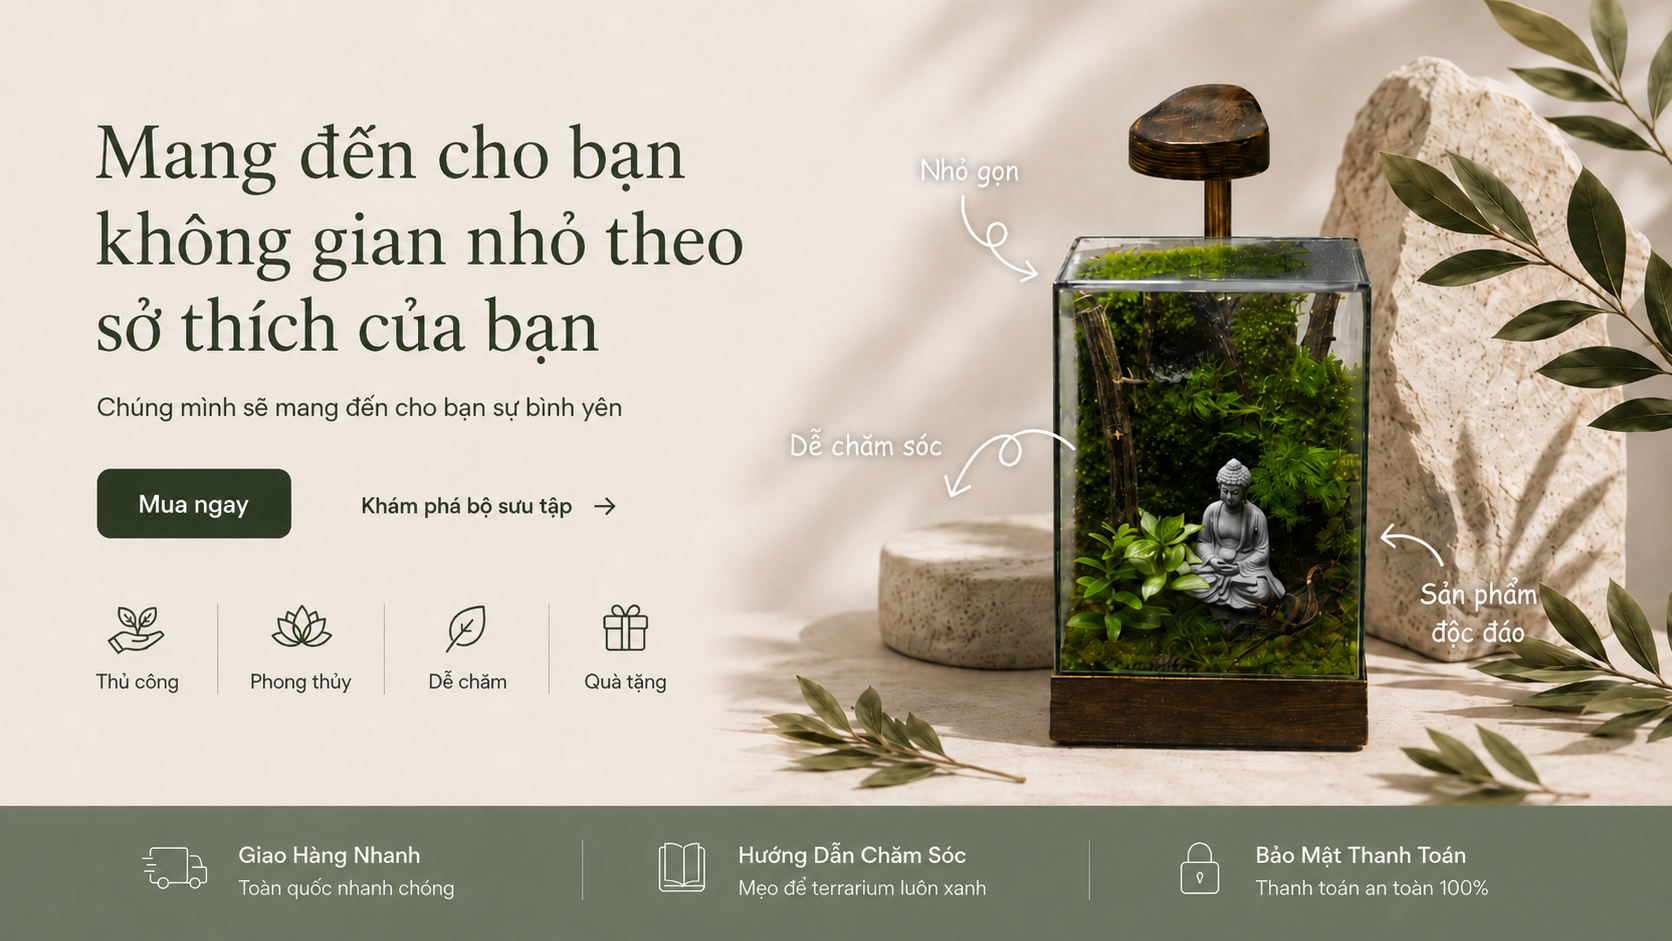
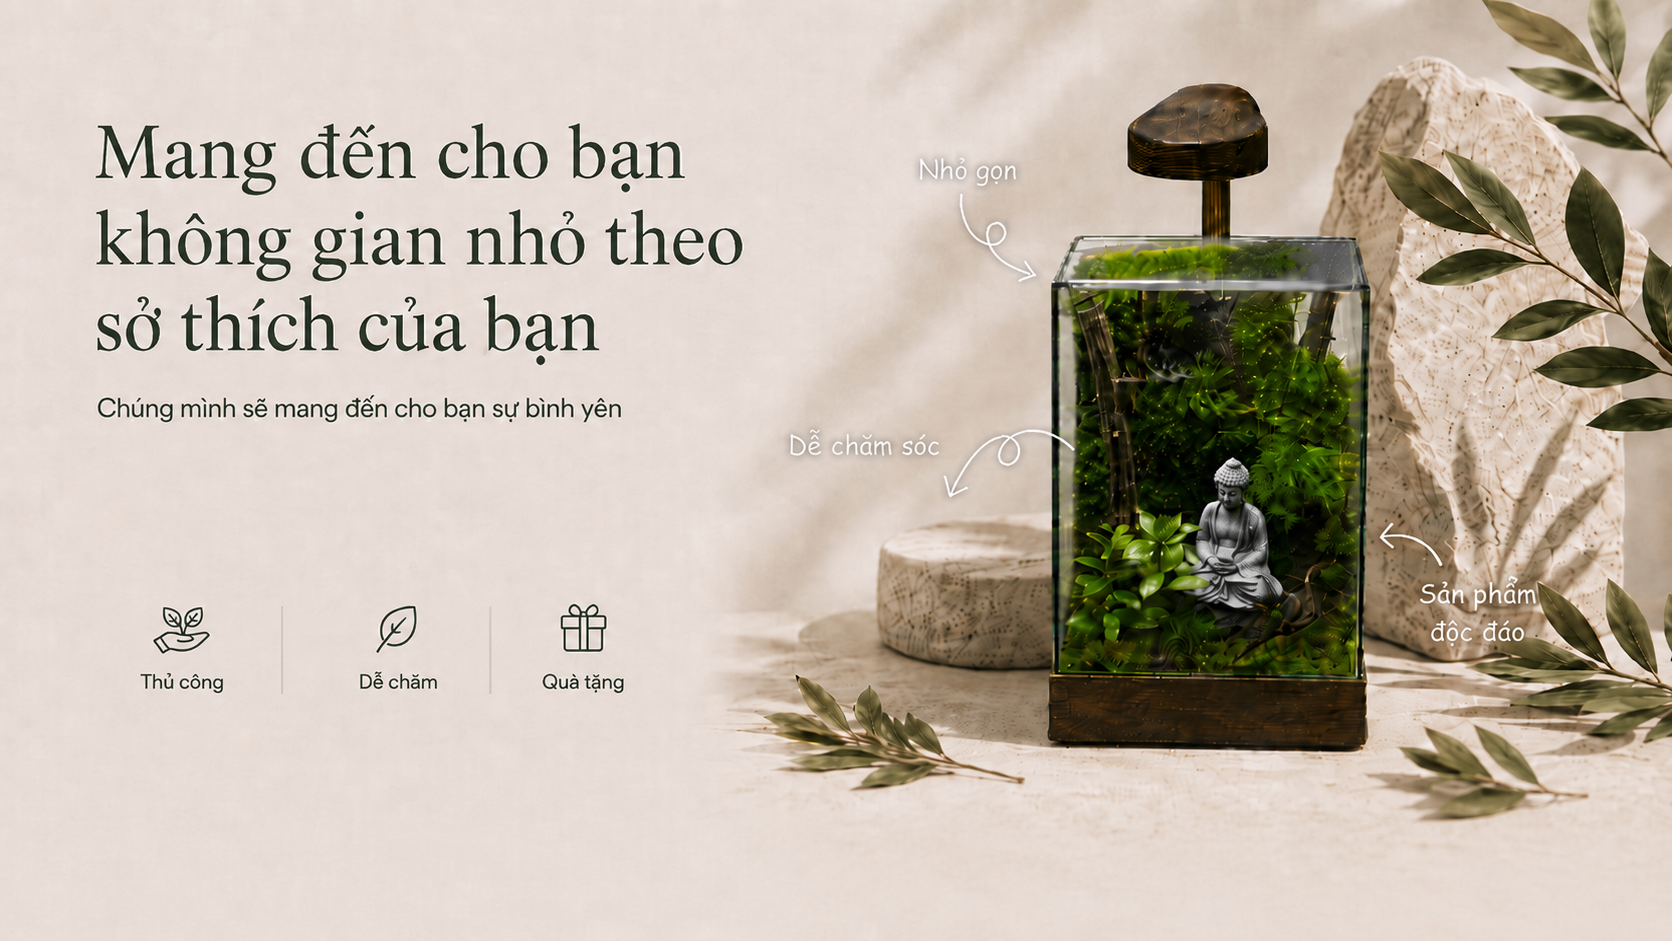
Rebuild homepage hero overlays

diff --git a/apps/web/app/page.tsx b/apps/web/app/page.tsx
@@ -5,10 +5,13 @@ import { Suspense } from "react";
 import {
   Sprout,
   ArrowRight,
+  BookOpen,
   FileText,
   Calendar,
   Gift,
   Leaf,
+  ShieldCheck,
+  Truck,
 } from "lucide-react";
 import { Button } from "@/components/ui/button";
 import { Card, CardContent } from "@/components/ui/card";
@@ -293,30 +296,54 @@ export default async function Home() {
         id="about"
         className="relative overflow-hidden bg-[#ECEEE5]"
       >
-        <div className="relative w-full">
+        <div className="relative min-h-[calc(100dvh-96px)] w-full">
           <img
             src="/home-hero-full-banner.png"
-            alt="Banner terrarium Tiệm Rêu Décor với sản phẩm rêu decor, lời giới thiệu, nút mua ngay và các lợi ích dịch vụ"
-            className="block h-auto w-full select-none"
+            alt="Banner terrarium Tiệm Rêu Décor với sản phẩm rêu decor và lời giới thiệu"
+            className="block h-[calc(100dvh-96px)] w-full select-none object-cover object-center"
             fetchPriority="high"
           />
-          <div className="absolute left-[5.65%] top-[49.2%] flex h-[8.35%] w-[34.5%] items-center gap-[3.2%] px-[0.75%]">
+          <div className="absolute left-6 right-6 top-[52.5%] flex h-11 items-center gap-3 sm:left-[5.65%] sm:right-auto sm:h-[8.5%] sm:w-[34.5%] sm:gap-[3.2%] sm:px-[0.75%]">
             <Link
               href="/products"
-              className="group relative flex h-[62%] w-[28.5%] items-center justify-center overflow-hidden rounded-full bg-[#3f5d33] text-[clamp(8px,0.78vw,14px)] font-semibold text-white shadow-[0_0.22vw_0.55vw_rgba(39,59,33,0.15)] ring-1 ring-white/15 transition-all duration-300 ease-out hover:-translate-y-[0.05vw] hover:bg-[#314d28] hover:shadow-[0_0.35vw_0.8vw_rgba(39,59,33,0.2)] focus:outline-none focus:ring-2 focus:ring-[#3f5d33] focus:ring-offset-2 active:translate-y-0 active:scale-[0.985]"
+              className="group relative flex h-full w-[36%] items-center justify-center overflow-hidden rounded-full bg-[#3f5d33] text-[13px] font-semibold text-white shadow-[0_0.22vw_0.55vw_rgba(39,59,33,0.15)] ring-1 ring-white/15 transition-all duration-300 ease-out hover:-translate-y-[0.05vw] hover:bg-[#314d28] hover:shadow-[0_0.35vw_0.8vw_rgba(39,59,33,0.2)] focus:outline-none focus:ring-2 focus:ring-[#3f5d33] focus:ring-offset-2 active:translate-y-0 active:scale-[0.985] sm:h-[64%] sm:w-[30%] sm:text-[clamp(8px,0.78vw,14px)]"
             >
               <span className="absolute inset-0 -translate-x-full bg-gradient-to-r from-transparent via-white/16 to-transparent transition-transform duration-700 group-hover:translate-x-full" />
               <span className="relative">Mua ngay</span>
             </Link>
             <Link
-              href="/products"
-              className="group flex h-[62%] w-[51.5%] items-center justify-center rounded-full border border-[#3f5d33]/20 bg-[#fffaf0] text-[#263b20] shadow-[0_0.12vw_0.35vw_rgba(55,70,44,0.06)] transition-all duration-300 ease-out hover:-translate-y-[0.05vw] hover:border-[#3f5d33]/35 hover:bg-white hover:shadow-[0_0.26vw_0.65vw_rgba(39,59,33,0.1)] focus:outline-none focus:ring-2 focus:ring-[#3f5d33] focus:ring-offset-2 active:translate-y-0 active:scale-[0.985]"
+              href="/explore"
+              className="group flex h-full w-[58%] items-center justify-center rounded-full border border-[#3f5d33]/20 bg-[#fffaf0] text-[#263b20] shadow-[0_0.12vw_0.35vw_rgba(55,70,44,0.06)] transition-all duration-300 ease-out hover:-translate-y-[0.05vw] hover:border-[#3f5d33]/35 hover:bg-white hover:shadow-[0_0.26vw_0.65vw_rgba(39,59,33,0.1)] focus:outline-none focus:ring-2 focus:ring-[#3f5d33] focus:ring-offset-2 active:translate-y-0 active:scale-[0.985] sm:h-[64%] sm:w-[52%]"
             >
-              <span className="flex items-center justify-center gap-[0.45vw] rounded-full px-[0.85vw] py-[0.28vw] text-[clamp(7px,0.7vw,13px)] font-semibold">
+              <span className="flex items-center justify-center gap-1.5 rounded-full px-3 py-1 text-[12px] font-semibold sm:gap-[0.45vw] sm:px-[0.85vw] sm:py-[0.28vw] sm:text-[clamp(11px,0.78vw,14px)]">
                 Khám phá bộ sưu tập
                 <ArrowRight className="h-[0.78vw] min-h-2.5 w-[0.78vw] min-w-2.5 stroke-[1.8] transition-transform duration-300 group-hover:translate-x-[0.14vw]" />
               </span>
             </Link>
+          </div>
+          <div className="absolute inset-x-0 bottom-0 bg-[#526044]/90 text-white shadow-[0_-0.45vw_1.2vw_rgba(30,45,26,0.12)] backdrop-blur-sm">
+            <div className="mx-auto grid max-w-6xl grid-cols-1 sm:grid-cols-3">
+              {[
+                { icon: Truck, title: "Giao Hàng Nhanh", subtitle: "Toàn quốc nhanh chóng" },
+                { icon: BookOpen, title: "Hướng Dẫn Chăm Sóc", subtitle: "Mẹo để terrarium luôn xanh" },
+                { icon: ShieldCheck, title: "Bảo Mật Thanh Toán", subtitle: "Thanh toán an toàn 100%" },
+              ].map((item, index) => {
+                const Icon = item.icon;
+                return (
+                  <Link
+                    href="/policies"
+                    key={item.title}
+                    className={`group flex min-h-[72px] items-center justify-center gap-4 px-5 py-3 transition-all duration-300 hover:bg-white/8 focus:outline-none focus-visible:ring-2 focus-visible:ring-white/70 active:scale-[0.985] sm:min-h-[92px] sm:gap-5 sm:px-6 sm:py-4 ${index > 0 ? "border-t border-white/20 sm:border-l sm:border-t-0 sm:border-white/28" : ""}`}
+                  >
+                    <Icon className="h-8 w-8 shrink-0 stroke-[1.45] text-white/90 transition-transform duration-300 group-hover:-translate-y-0.5" />
+                    <span className="min-w-0">
+                      <span className="block text-lg font-semibold leading-tight tracking-[0]">{item.title}</span>
+                      <span className="mt-1 block text-sm leading-snug text-white/78">{item.subtitle}</span>
+                    </span>
+                  </Link>
+                );
+              })}
+            </div>
           </div>
         </div>
       </section>
